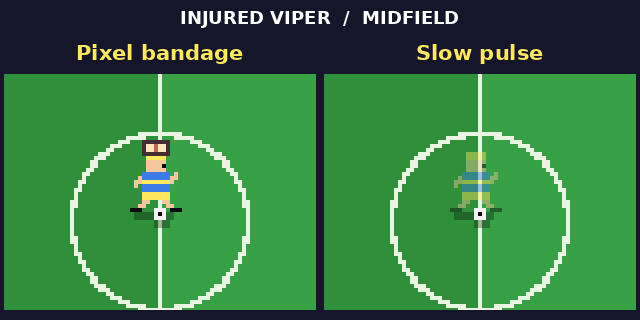
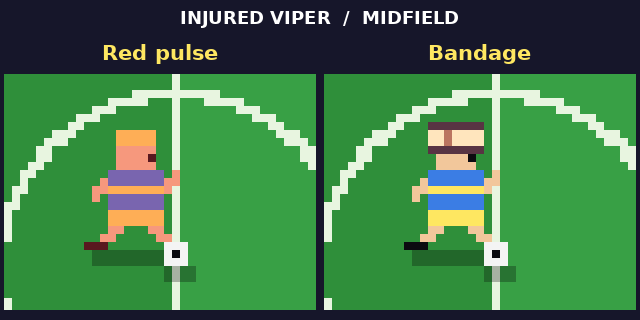
fix(match): preserve hit reactions and make injury styles accessible

diff --git a/src/game/MatchView.ts b/src/game/MatchView.ts
@@ -7,7 +7,7 @@ import { ANIMATIONS, airTicks } from '../content/animations';
 import type { MatchState, PlayerState, TeamId, Vec } from '../sim';
 import { outgoingAt } from './outgoing';
 import { animFor } from './playerAnim';
-import { ATLAS_KEY, BALL_KEY, BALL_PX } from './BootScene';
+import { ATLAS_KEY, INJURY_KEY, BALL_KEY, BALL_PX } from './BootScene';
 import { DEPTH, PITCH_TEX_H, PITCH_TEX_W, arcLift, cameraTarget, nextFlip, pitchImagePos, worldToScreen } from './layout';
 import { CRATER_H, CRATER_W, drawCrater, drawPitch } from './pitchArt';
 import { STAR_BURST, shakeOffset, starOffsets, strongerShake, type Shake } from './hitFeedback';
@@ -22,6 +22,7 @@ const BALL_SHADOW_W = BALL_PX + 1;
 const BALL_CENTER_PX = Math.floor(BALL_PX / 2); // sprite columns left of the ball's position
 /** Body centre is column ORIGIN_X, but flipX mirrors about x = ORIGIN_X; shift a flipped sprite right to keep the body still. */
 const FLIP_OFFSET_PX = 1;
+const INJURY_DEPTH_OFFSET = 0.001; // draw over the wearer at the same pitch position
 const MARKER = { w: 8, h: 5, above: 19, color: Phaser.Display.Color.HexStringToColor(PAL.yel).color }; // px above the feet
 
 /** Star pixels: this big, this far above the feet at the burst centre. */
@@ -30,13 +31,7 @@ const STAR = { size: 2, centerAbove: 8, color: MARKER.color };
 interface StarBurst { pos: Vec; startMs: number; stars: Phaser.GameObjects.Rectangle[] }
 interface Crater { pos: Vec; image: Phaser.GameObjects.Image }
 
-const BANDAGE = [
-  { dx: -3, dy: -18, w: 7, h: 4, color: 0x452e32 },
-  { dx: -2, dy: -17, w: 5, h: 2, color: 0xffe5bd },
-  { dx: 0, dy: -17, w: 1, h: 2, color: 0xb96a4b },
-];
-
-interface PlayerView { sprite: Phaser.GameObjects.Image; shadow: Phaser.GameObjects.Rectangle; bandage: Phaser.GameObjects.Rectangle[]; flip: boolean }
+interface PlayerView { sprite: Phaser.GameObjects.Image; shadow: Phaser.GameObjects.Rectangle; injury: Phaser.GameObjects.Image; flip: boolean }
 
 /** Draws the pitch, players and ball from match state. Reads state, never writes it. */
 export class MatchView {
@@ -96,7 +91,7 @@ export class MatchView {
     this.clearCraters();
     this.bursts.forEach(b => b.stars.forEach(star => star.destroy()));
     this.bursts.length = 0;
-    this.outgoing.forEach(({ view }) => { view.sprite.destroy(); view.shadow.destroy(); view.bandage.forEach(d => d.destroy()); });
+    this.outgoing.forEach(({ view }) => { view.sprite.destroy(); view.shadow.destroy(); view.injury.destroy(); });
     this.outgoing.length = 0;
     this.shaking = null;
   }
@@ -134,7 +129,7 @@ export class MatchView {
       const actor = this.outgoing[i];
       const elapsed = state.tick - actor.start;
       if (elapsed >= actor.player.statusTicks) {
-        actor.view.sprite.destroy(); actor.view.shadow.destroy(); actor.view.bandage.forEach(d => d.destroy());
+        actor.view.sprite.destroy(); actor.view.shadow.destroy(); actor.view.injury.destroy();
         this.outgoing.splice(i, 1); continue;
       }
       this.syncPlayer(actor.view, outgoingAt(actor.player, elapsed), state, camX, false);
@@ -177,9 +172,9 @@ export class MatchView {
   }
 
   private createPlayerView(p: PlayerState): PlayerView {
-    const bandage = BANDAGE.map(({ w, h, color }) =>
-      this.scene.add.rectangle(0, 0, w, h, color).setOrigin(0, 0).setDepth(DEPTH.marker).setVisible(false));
-    return { sprite: this.scene.add.image(0, 0, ATLAS_KEY).setName(`player-${p.id}`).setOrigin(0, 0), shadow: this.shadowRect(SHADOW.w), bandage, flip: nextFlip(false, p.facing.x) };
+    const sprite = this.scene.add.image(0, 0, ATLAS_KEY).setName(`player-${p.id}`).setOrigin(0, 0);
+    const injury = this.scene.add.image(0, 0, INJURY_KEY).setOrigin(0, 0).setVisible(false);
+    return { sprite, shadow: this.shadowRect(SHADOW.w), injury, flip: nextFlip(false, p.facing.x) };
   }
 
   private syncPlayer(view: PlayerView, p: PlayerState, state: MatchState, camX: number, marker = true): void {
@@ -190,17 +185,20 @@ export class MatchView {
     const { key, tick } = animFor(p, state.tick);
     const def = ANIMATIONS[key];
     const lift = arcLift(def.arcHeight, tick, airTicks(def));
+    const frame = frameIndex(key, tick);
     view.sprite
-      .setFrame(frameKey(kit, key, frameIndex(key, tick)))
+      .setFrame(frameKey(kit, key, frame))
       .setFlipX(view.flip)
       .setPosition(x - ORIGIN_X + (view.flip ? FLIP_OFFSET_PX : 0), y - ORIGIN_Y - Math.round(lift))
       .setDepth(p.pos.y);
     view.shadow.setPosition(x - SHADOW.w / 2, y);
-    const injured = marker && isInjured(state, p);
-    const pulse = this.injuryStyle === 'pulse';
-    view.bandage.forEach((part, i) => part.setVisible(injured && !pulse)
-      .setPosition(x + BANDAGE[i].dx, y - Math.round(lift) + BANDAGE[i].dy));
-    view.sprite.setAlpha(injured && pulse ? pulseAlpha(state.tick) : 1);
+    const upright = p.status.kind === 'free' || p.status.kind === 'charging' || p.status.kind === 'kicking';
+    view.injury.setVisible(marker && upright && isInjured(state, p));
+    if (view.injury.visible) {
+      view.injury.setFrame(`${this.injuryStyle}_${key}_${frame}`)
+        .setPosition(view.sprite.x, view.sprite.y).setDepth(p.pos.y + INJURY_DEPTH_OFFSET).setFlipX(view.flip)
+        .setAlpha(this.injuryStyle === 'pulse' ? pulseAlpha(state.tick) : 1);
+    }
     if (marker && state.config.human[p.team] && state.controlled[p.team] === p.id) {
       this.markers[p.team as TeamId].setVisible(true).setPosition(x, y - MARKER.above - Math.round(lift));
     }

diff --git a/src/game/ShellScene.ts b/src/game/ShellScene.ts
@@ -1,3 +1,4 @@
+import { DEFAULT_INJURY_STYLE, type InjuryStyle } from './indicators';
 import Phaser from 'phaser';
 import { frameKey } from '../art/sprites';
 import { ATLAS_KEY, BALL_KEY } from './BootScene';
@@ -8,8 +9,10 @@ import { LEVEL_ORDER, type Level } from '../sim';
 import { consumeResult, retryCup, quitCup, cupMatchConfig, startCup, type CupSession } from './cupSession';
 import { parseMatchParams } from './params';
 import { setupConfig, type MatchLength, type SetupSelection } from './setupSelection';
+import { SCREEN_W, SCREEN_H } from './layout';
 import { matchTeams, type MatchLaunch } from './launch';
 
+const INJURY_BUTTON = { x: 68, y: 145, w: 122, h: 24 };
 let runCounter = 0;
 const lengths: MatchLength[] = ['short', 'long', 'five'];
 
@@ -20,22 +23,42 @@ export class ShellScene extends Phaser.Scene {
   private currentMatchLaunch: MatchLaunch | null = null;
   private screen: 'title' | 'setup' = 'title';
   private selection: SetupSelection = { team: 0, opponent: 1, level: 'pro', length: 'short' };
-  private injuryStyle: 'bandage' | 'pulse' = 'bandage';
+  private injuryStyle: InjuryStyle = DEFAULT_INJURY_STYLE;
+  private injuryButton!: HTMLButtonElement;
   private focus = 0;
   private leaving = false;
   constructor() { super('shell'); }
 
   create(): void {
     this.leaving = false;
+    const button = document.createElement('button');
+    this.injuryButton = button;
+    button.type = 'button';
+    button.style.cssText = 'position:fixed;opacity:0;margin:0;padding:0;border:0';
+    document.body.append(button);
+    button.onclick = () => {
+      this.focus = 6;
+      this.activate(6, 1);
+      this.render();
+    };
+    button.onfocus = () => { this.focus = 6; this.render(); };
+    this.scale.on('resize', this.positionInjuryButton, this);
     // Menu commands follow native presses. Phaser can re-emit queued events within a frame.
     const onKey = (event: KeyboardEvent) => this.onKey(event);
     window.addEventListener('keydown', onKey);
-    this.events.once('shutdown', () => window.removeEventListener('keydown', onKey));
+    this.events.once('shutdown', () => {
+      window.removeEventListener('keydown', onKey);
+      this.scale.off('resize', this.positionInjuryButton, this);
+      button.remove();
+    });
     this.render();
   }
   private onKey(event: KeyboardEvent): void {
     if (this.leaving) return;
-    if (event.repeat && (event.key === 'Enter' || event.key === ' ')) return;
+    if (event.repeat && (event.key === 'Enter' || event.key === ' ')) {
+      event.preventDefault();
+      return;
+    }
     if (['ArrowUp', 'ArrowDown', 'ArrowLeft', 'ArrowRight', 'Enter', ' ', 'Escape', 'Tab'].includes(event.key)) event.preventDefault();
     const targets = this.screen === 'title' ? [0, 1] : this.mode === 'cup' ? [0, 2, 3, 6, 4, 5] : [0, 1, 2, 3, 6, 4, 5];
     const position = targets.indexOf(this.focus);
@@ -95,8 +118,22 @@ export class ShellScene extends Phaser.Scene {
     this.focus = 0;
   }
 
+  private positionInjuryButton(): void {
+    const bounds = this.game.canvas.getBoundingClientRect();
+    const { x, y, w, h } = INJURY_BUTTON;
+    Object.assign(this.injuryButton.style, {
+      left: `${bounds.left + x * bounds.width / SCREEN_W}px`, top: `${bounds.top + y * bounds.height / SCREEN_H}px`,
+      width: `${w * bounds.width / SCREEN_W}px`, height: `${h * bounds.height / SCREEN_H}px`,
+    });
+  }
+
   private render(): void {
     if (this.leaving) return;
+    this.injuryButton.hidden = this.screen !== 'setup';
+    this.injuryButton.textContent = `Injury indicator: ${this.injuryStyle === 'pulse' ? 'Pulse' : 'Bandage'}`;
+    if (!this.injuryButton.hidden) this.positionInjuryButton();
+    if (!this.injuryButton.hidden && this.focus === 6) this.injuryButton.focus();
+    else this.injuryButton.blur();
     this.children.removeAll(true);
     const g = this.add.graphics();
     const rect = (x: number, y: number, w: number, h: number, color: string) => { g.fillStyle(Phaser.Display.Color.HexStringToColor(color).color); g.fillRect(x, y, w, h); };
@@ -105,6 +142,7 @@ export class ShellScene extends Phaser.Scene {
     const button = (index: number, x: number, y: number, w: number, h: number, label: string, color: string = PAL.dk) => {
       rect(x, y, w, h, index === this.focus ? PAL.yel : PAL.gry); rect(x + 1, y + 1, w - 2, h - 2, color);
       text(label, x + w / 2, y + Math.floor((h - 5) / 2), PAL.wht, 1, 'c');
+      if (index === 6) return; // The native injury button owns pointer and assistive activation.
       this.add.zone(x, y, w, h).setOrigin(0).setInteractive().on('pointerdown', (p: Phaser.Input.Pointer) => {
         if (this.leaving) return;
         this.focus = index;
@@ -145,7 +183,7 @@ export class ShellScene extends Phaser.Scene {
     const label = this.selection.length === 'short' ? '2 MIN/HALF' : this.selection.length === 'long' ? '4 MIN/HALF' : 'FIRST TO 5';
     button(3, 163, 112, 145, 22, `LENGTH: < ${label} >`);
     button(4, 12, 145, 52, 24, '< BACK');
-    button(6, 68, 145, 122, 24, `INJURY: ${this.injuryStyle}`);
+    button(6, INJURY_BUTTON.x, INJURY_BUTTON.y, INJURY_BUTTON.w, INJURY_BUTTON.h, `INJURY: ${this.injuryStyle}`);
     button(5, 194, 145, 114, 24, 'KICK OFF >', PAL.red);
   }
 }

diff --git a/src/game/BootScene.ts b/src/game/BootScene.ts
@@ -2,10 +2,11 @@ import Phaser from 'phaser';
 import { initialRoute } from './launch';
 import { canvasRect } from '../art/canvasRect';
 import { KITS, PAL } from '../art/palette';
-import { FRAME_H, FRAME_W, atlasLayout, drawFrame, frameKey } from '../art/sprites';
+import { FRAME_H, FRAME_W, ORIGIN_X, ORIGIN_Y, atlasLayout, drawFrame, frameKey } from '../art/sprites';
 import { ANIMATIONS } from '../content/animations';
 
 export const ATLAS_KEY = 'atlas';
+export const INJURY_KEY = 'injury';
 export const BALL_KEY = 'ball';
 /** Ball sprite size in pixels. */
 export const BALL_PX = 3;
@@ -31,6 +32,24 @@ export class BootScene extends Phaser.Scene {
       }
     });
     atlas.refresh();
+    // Both overlays use the same frame origin and flip as the underlying sprite.
+    const upright = ['idle', 'run', 'kick', 'charge'].flatMap(key =>
+      ANIMATIONS[key].frames.map((pixels, frame) => ({ key, frame, pixels })));
+    const injury = this.textures.createCanvas(INJURY_KEY, upright.length * FRAME_W, 2 * FRAME_H);
+    if (!injury) throw new Error('injury texture could not be created');
+    upright.forEach(({ key, frame, pixels }, i) => {
+      const x = i * FRAME_W;
+      const rect = canvasRect(injury.context, x + ORIGIN_X, ORIGIN_Y);
+      for (const [dx, dy, w, h] of pixels) rect(dx, dy, w, h, '#ff333e');
+      injury.add(`pulse_${key}_${frame}`, 0, x, 0, FRAME_W, FRAME_H);
+      const [hx, hy, width] = pixels.find(pixel => pixel[4] === 'hair')!;
+      const wrap = canvasRect(injury.context, x + ORIGIN_X + hx, FRAME_H + ORIGIN_Y + hy);
+      wrap(-1, -1, width + 2, 4, '#583443');
+      wrap(-1, 0, width + 2, 2, '#ffe5bd');
+      wrap(1, 0, 1, 2, '#bb7560');
+      injury.add(`bandage_${key}_${frame}`, 0, x, FRAME_H, FRAME_W, FRAME_H);
+    });
+    injury.refresh();
 
     const ball = this.textures.createCanvas(BALL_KEY, BALL_PX, BALL_PX);
     if (!ball) throw new Error('ball texture could not be created');

diff --git a/e2e/handoff.spec.ts b/e2e/handoff.spec.ts
@@ -106,16 +106,23 @@ for (const route of ['demo', 'match']) {
   });
 }
 
-test('phone setup defaults to bandage and can launch with slow pulse', async ({ page }) => {
+test('phone setup defaults to Pulse and exposes the Bandage choice', async ({ page }) => {
   await page.setViewportSize({ width: 640, height: 360 });
   await observeEntries(page);
   await openFriendly(page);
-  for (const style of ['bandage', 'pulse']) {
+  for (const style of ['pulse', 'bandage']) {
     await returnToShell(page);
     await page.keyboard.press('Enter');
     // Let Phaser register the newly drawn setup zones before tapping.
     await page.evaluate(() => new Promise<void>(resolve => requestAnimationFrame(() => requestAnimationFrame(() => resolve()))));
-    if (style === 'pulse') {
+    const pulse = page.getByRole('button', { name: 'Injury indicator: Pulse', exact: true });
+    await expect(pulse).toBeVisible();
+    if (style === 'bandage') {
+      await pulse.dispatchEvent('click'); // Assistive activation can arrive without a pointer press.
+      const bandage = page.getByRole('button', { name: 'Injury indicator: Bandage' });
+      await expect(bandage).toBeFocused();
+      await bandage.press('Space');
+      await expect(pulse).toBeFocused();
       await page.mouse.click(260, 314);
       await page.keyboard.press('ArrowDown'); // Back
       await page.keyboard.press('ArrowDown'); // Kick Off
@@ -124,6 +131,7 @@ test('phone setup defaults to bandage and can launch with slow pulse', async ({ 
     }
     await page.keyboard.press('Enter');
     await page.waitForFunction(() => !!window.__ff);
+    await expect(page.getByRole('button', { name: /Injury indicator/, includeHidden: true })).toHaveCount(0);
     expect(await page.evaluate(() => window.launches.at(-1)?.injuryStyle)).toBe(style);
   }
 });

diff --git a/src/game/indicators.ts b/src/game/indicators.ts
@@ -1,4 +1,4 @@
-import { BIG_HIT_CHARGE_TICKS, TURBO_COST, type PlayerState } from '../sim';
+import { TICK_HZ, BIG_HIT_CHARGE_TICKS, TURBO_COST, type PlayerState } from '../sim';
 
 /** 0..1 progress of a big-hit charge (1 = charged enough for a big hit); 0 when not charging. */
 export function chargeFill(p: PlayerState): number {
@@ -16,9 +16,10 @@ export function chargeJustStarted(wasCharging: boolean, p: PlayerState): boolean
   return !wasCharging && p.status.kind === 'charging';
 }
 
+export const DEFAULT_INJURY_STYLE = 'pulse';
 export type InjuryStyle = 'bandage' | 'pulse';
 
-/** One smooth two-second cycle, always visible even at minimum intensity. */
+/** Opacity of the red overlay over a fully opaque player during one two-second cycle. */
 export function pulseAlpha(tick: number): number {
-  return 0.7 + 0.25 * Math.cos(tick * Math.PI / 60);
+  return 0.16 * (1 + Math.cos(tick * Math.PI / TICK_HZ));
 }

diff --git a/src/game/MatchScene.ts b/src/game/MatchScene.ts
@@ -1,3 +1,4 @@
+import { DEFAULT_INJURY_STYLE } from './indicators';
 import { resolveKits, TEAMS } from '../content/teams';
 import Phaser from 'phaser';
 import { drawText } from '../art/pixelFont';
@@ -112,7 +113,7 @@ export class MatchScene extends Phaser.Scene {
     };
     window.__ff = hook;
     const kits = this.launch.kits ?? resolveKits(TEAMS[0], TEAMS[1]);
-    this.view = new MatchView(this, seededRandom(this.seed ^ EFFECT_SEED_SALT), kits, this.launch.injuryStyle ?? 'bandage');
+    this.view = new MatchView(this, seededRandom(this.seed ^ EFFECT_SEED_SALT), kits, this.launch.injuryStyle ?? DEFAULT_INJURY_STYLE);
     this.hud = new Hud(this, this.launch.teamNames, [KITS[kits[0].outfield].jersey, KITS[kits[1].outfield].jersey]);
     this.calloutBanner = new CalloutBanner(this);
     this.flash = this.add.rectangle(0, 0, SCREEN_W, SCREEN_H, 0xffffff).setOrigin(0, 0).setDepth(DEPTH.flash).setAlpha(0);

diff --git a/src/art/palette.ts b/src/art/palette.ts
@@ -14,7 +14,7 @@ const regular: readonly Kit[] = [
   { jersey: PAL.navy, trim: PAL.yel, shorts: PAL.yel, hair: PAL.ink, skin: PAL.skin },
   { jersey: PAL.yel, trim: PAL.pur, shorts: PAL.pur, hair: PAL.ink, skin: PAL.skin2 },
   { jersey: PAL.org, trim: PAL.blue, shorts: PAL.blue, hair: PAL.ink, skin: PAL.skin },
-  { jersey: PAL.wht, trim: PAL.grn, shorts: PAL.grn, hair: PAL.ink, skin: PAL.skin2 },
+  { jersey: PAL.wht, trim: '#702349', shorts: '#702349', hair: PAL.ink, skin: PAL.skin2 },
   { jersey: '#a646df', trim: PAL.wht, shorts: PAL.wht, hair: PAL.ink, skin: PAL.skin },
 ];
 

diff --git a/tests/game/indicators.test.ts b/tests/game/indicators.test.ts
@@ -33,6 +33,6 @@ test('the charge sound starts on the step a charge begins, once', () => {
   expect(chargeJustStarted(true, p)).toBe(false);
 });
 
-test('local injury pulse stays visible throughout its two-second cycle', () => {
-  for (const [tick, alpha] of [[0, 0.95], [30, 0.7], [60, 0.45], [120, 0.95]]) expect(pulseAlpha(tick)).toBeCloseTo(alpha);
+test('red overlay gently rises and falls over two seconds', () => {
+  for (const [tick, alpha] of [[0, 0.32], [30, 0.16], [60, 0], [120, 0.32]]) expect(pulseAlpha(tick)).toBeCloseTo(alpha);
 });
